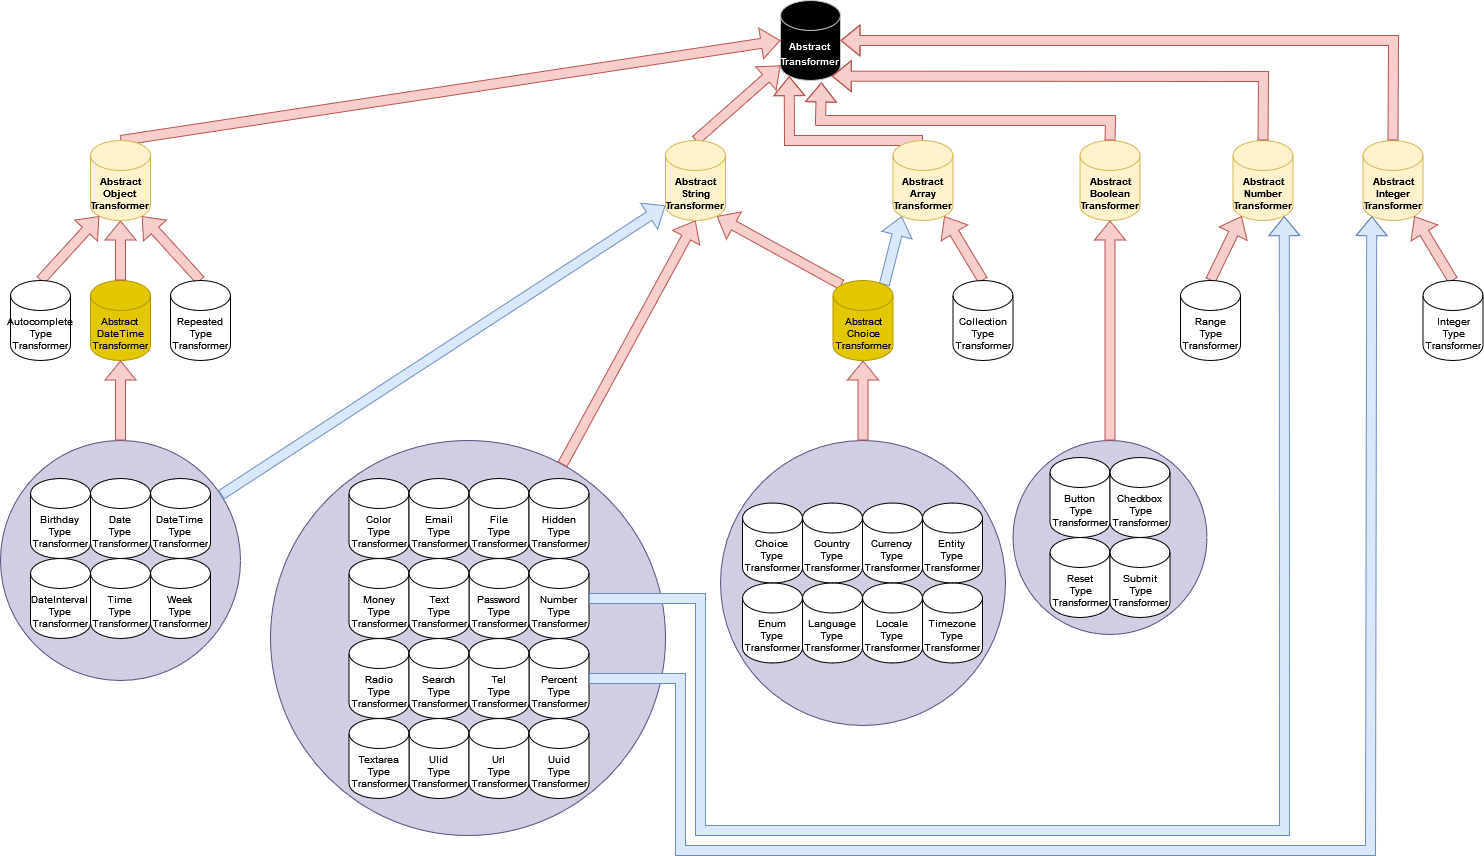
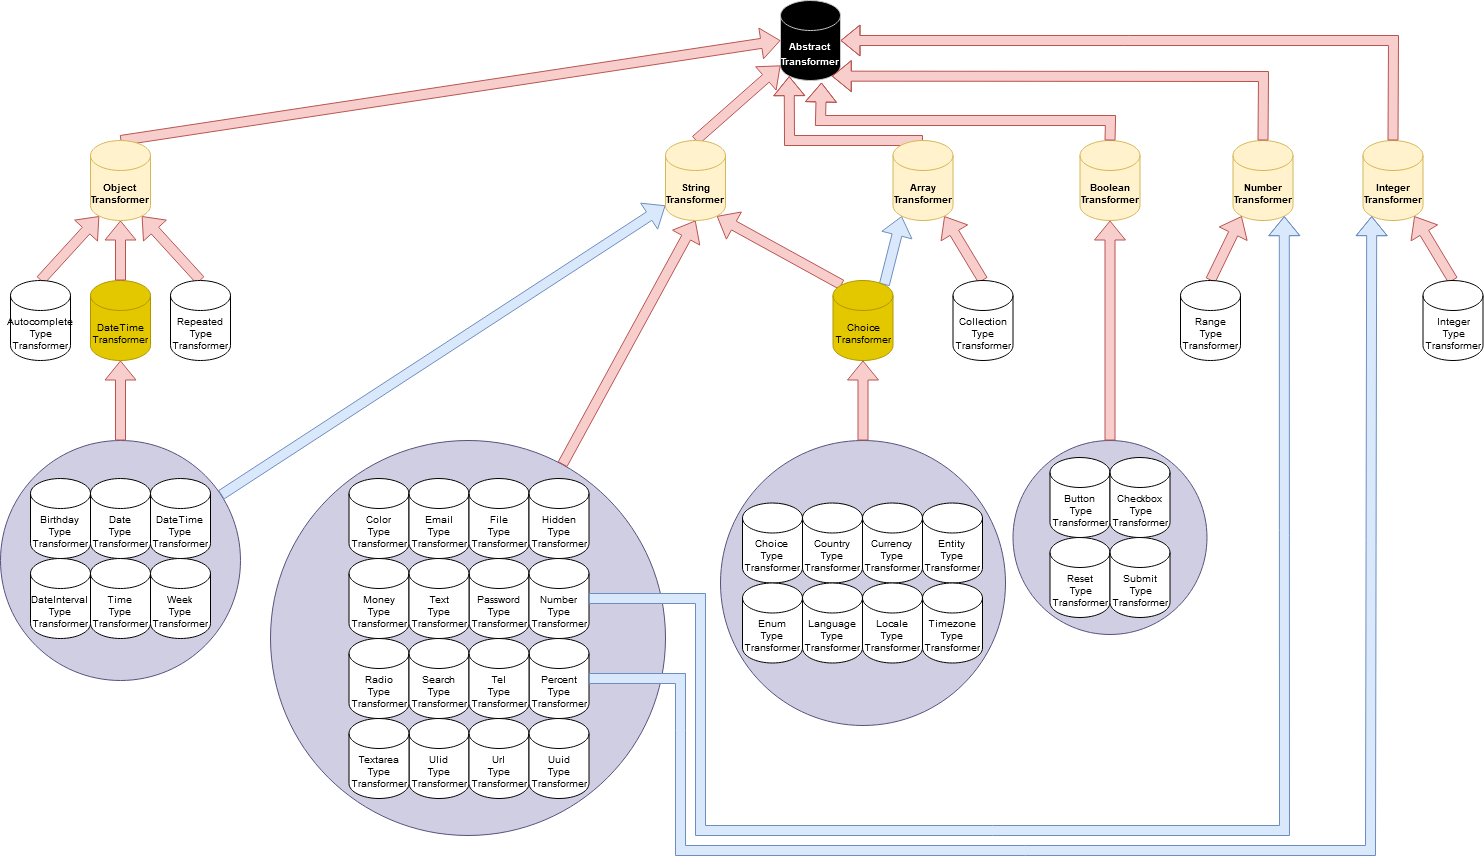
docs: only the parent transformer is abstract

diff --git a/README.md b/README.md
@@ -661,7 +661,7 @@ You can also implement directly the interface, but you've to manage everything b
 
 You're using [VichUploaderBundle](https://github.com/dustin10/VichUploaderBundle) and you want to serialize specific options of this bundle.
 
-Just extend the [AbstractObjectTransformer](src/Transformer/AbstractObjectTransformer.php), call the parent function, embed your json props and voila!
+Just extend the [ObjectTransformer](src/Transformer/ObjectTransformer.php), call the parent function, embed your json props and voila!
 
 ```php
 <?php
@@ -669,10 +669,10 @@ Just extend the [AbstractObjectTransformer](src/Transformer/AbstractObjectTransf
 namespace App\JsonSchema;
 
 use Symfony\Component\Form\FormInterface;
-use W3rOne\JsonSchemaBundle\Transformer\AbstractObjectTransformer;
+use W3rOne\JsonSchemaBundle\Transformer\ObjectTransformer;
 use W3rOne\JsonSchemaBundle\Utils;
 
-class VichFileTypeTransformer extends AbstractObjectTransformer
+class VichFileTypeTransformer extends ObjectTransformer
 {
     public function transform(FormInterface $form): array
     {
@@ -694,16 +694,16 @@ class VichFileTypeTransformer extends AbstractObjectTransformer
 
 You want to add a `PositionType` as an `integer`.
 
-Here we just extend the correct base `AbstractIntegerTransformer`.
+Here we just extend the correct base `IntegerTransformer`.
 
 ```php
 <?php
 
 namespace App\JsonSchema;
 
-use W3rOne\JsonSchemaBundle\Transformer\AbstractIntegerTransformer;
+use W3rOne\JsonSchemaBundle\Transformer\IntegerTransformer;
 
-class PositionTypeTransformer extends AbstractIntegerTransformer
+class PositionTypeTransformer extends IntegerTransformer
 {
 }
 ```
